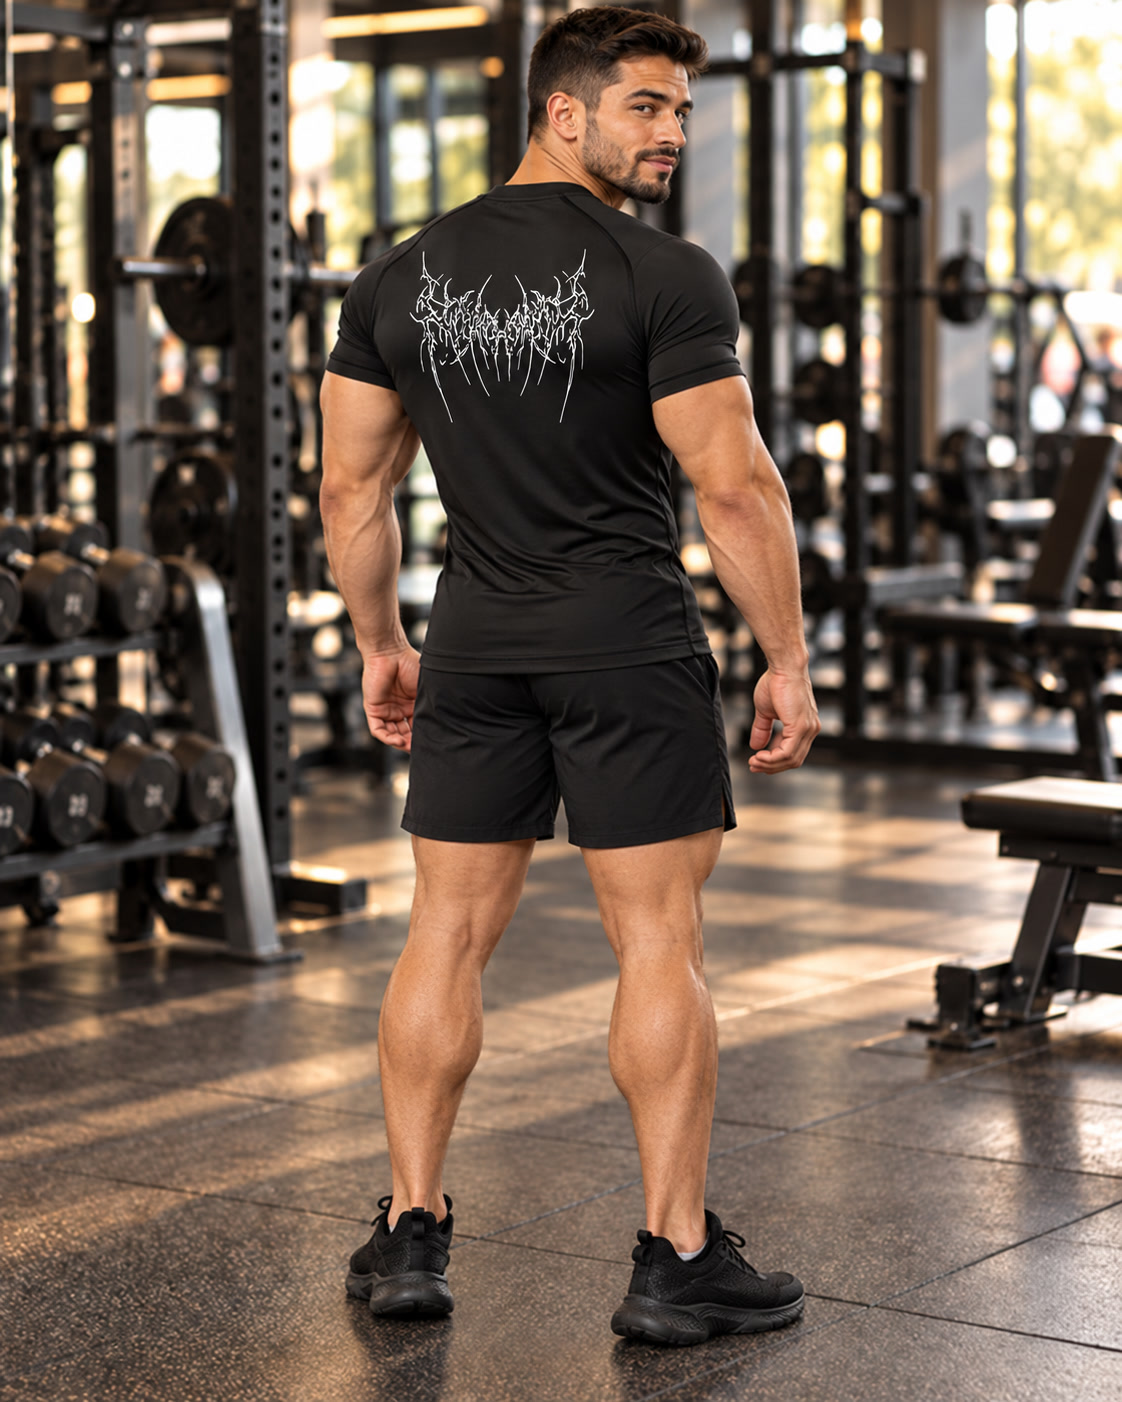
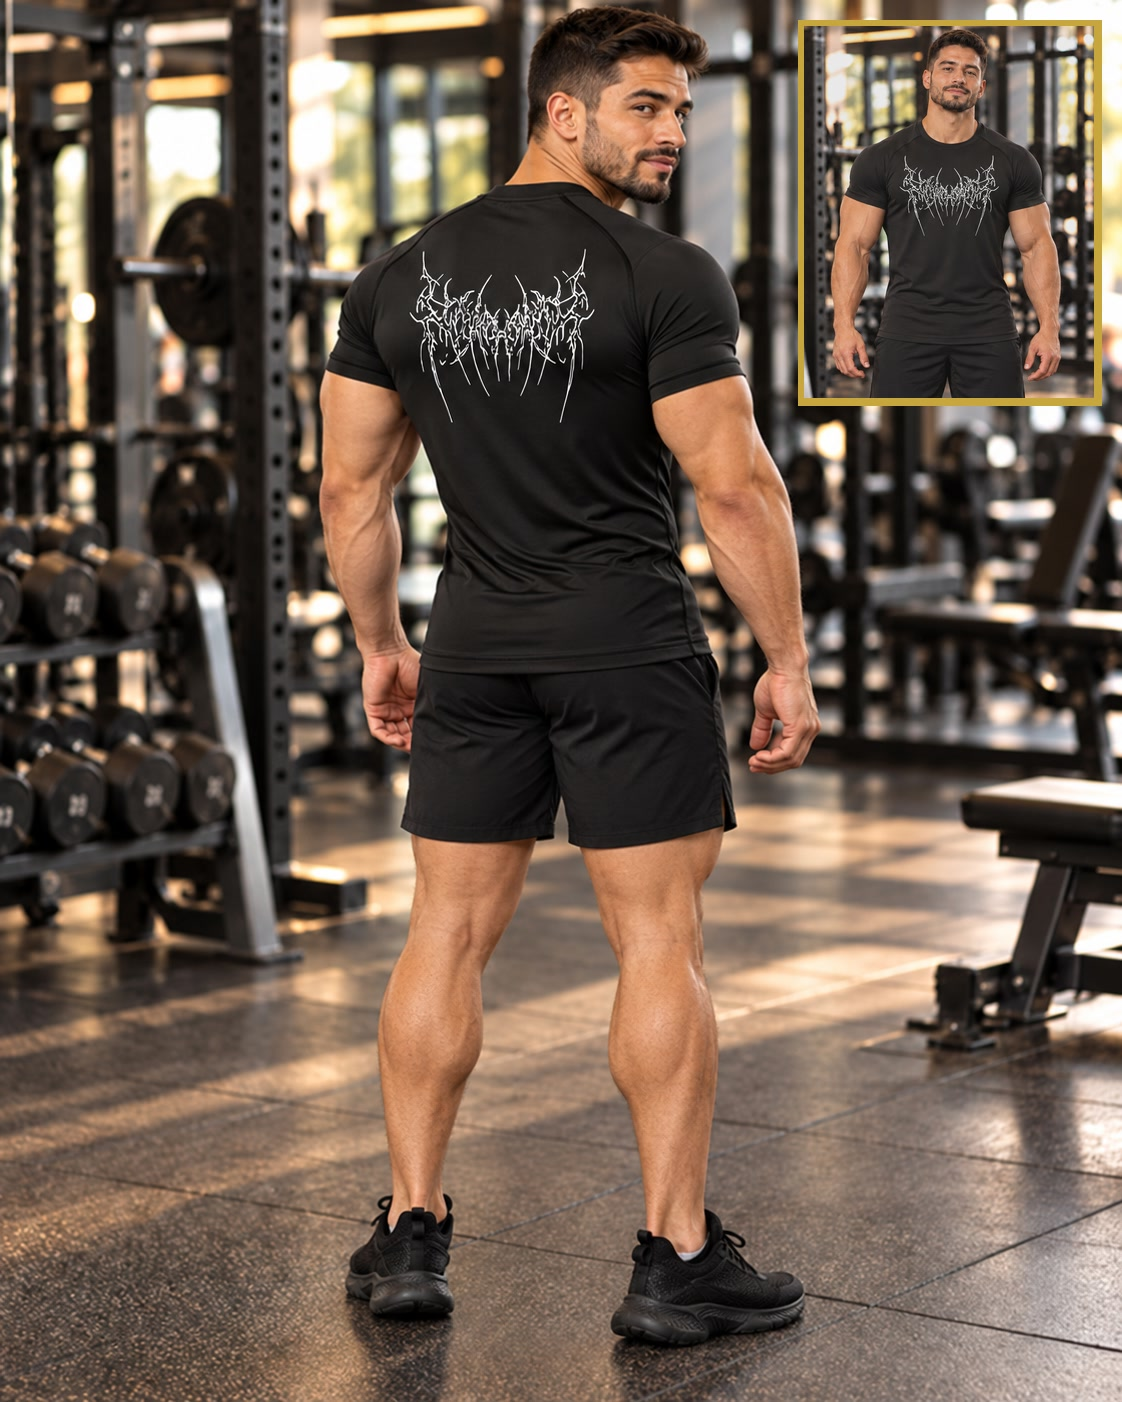
Tienda: polera Rise LYT con cuadro de frente
Claude-Session: https://claude.ai/code/session_013ZgZPSRHEDhMsqmx8Km842

Changed region(s): [[0.6863, 0.0, 0.9982, 0.3067]]

diff --git a/tienda.html b/tienda.html
@@ -221,7 +221,7 @@ function hoyISO(){ return new Intl.DateTimeFormat("en-CA", { timeZone:"America/S
 function ahoraTxt(){ var f = new Intl.DateTimeFormat("sv-SE", { timeZone:"America/Santiago", year:"numeric", month:"2-digit", day:"2-digit", hour:"2-digit", minute:"2-digit" }).format(new Date()); return f.replace("T", " ").slice(0, 16); }
 function normTxt(s){ return String(s || "").toUpperCase().normalize("NFD").replace(/[̀-ͯ]/g, ""); }
 /* Al cambiar una foto en img/tienda/ (mismo nombre), subir FOTO_V para que los teléfonos no muestren la antigua. */
-var FOTO_V = "18";
+var FOTO_V = "19";
 function fotoUrl(f){ return f ? f + (f.indexOf("?") < 0 ? "?v=" + FOTO_V : "") : ""; }
 function iconoCat(c){ var x = CATS.filter(function(k){ return k[0] === c; })[0]; return x ? x[1] : "📦"; }
 function toast(t, ms){ var el = $("toast"); el.textContent = t; el.style.display = "block"; clearTimeout(toast.t); toast.t = setTimeout(function(){ el.style.display = "none"; }, ms || 2600); }
@@ -303,7 +303,7 @@ setInterval(function(){ if(pend.length) enviarPendientes(); }, 30000);
    el computador"): los datos se vuelven a pedir a la planilla cada 30 s mientras la página está a la vista (sin una ficha
    abierta), y cada minuto se revisa tienda-version.txt: si hay una versión nueva de la página, se recarga sola.
    Cada vez que se cambie tienda.html, subir TIENDA_VERSION y tienda-version.txt juntos (AAAAMMDDNN). */
-var TIENDA_VERSION = "2026102509";
+var TIENDA_VERSION = "2026102510";
 setInterval(function(){ if(clave && !document.hidden && $("velo").hidden && !$("app").hidden) enviarPendientes().then(function(){ cargar(true); }); }, 30000);
 function revisarVersion(){
  fetch("tienda-version.txt?t=" + Date.now(), { cache:"no-store" }).then(function(r){ return r.ok ? r.text() : ""; }).then(function(v){

diff --git a/CLAUDE.md b/CLAUDE.md
@@ -1533,7 +1533,7 @@ Versión 23). Celular y compu ven el mismo inventario.
   guardado como «Ropa deportiva» se muestra como «Ropa mujer»; en los enlaces usar `cat=Ropa%20mujer` o `cat=Ropa%20hombre`).
   Ropa deportiva de mujer (24-10-2026): cada talla y color es un producto aparte con su código 200… (la ropa no trae
   código). Conjunto Gym Work 3 piezas blanco/negro M ($13.609 → $22.000; foto de espaldas con la modelo + cuadro con la foto original del conjunto, en 900 px de alto), Short scrunch M.Minute negro S (foto `img/tienda/short-scrunch-negro.jpg`, con modelo + cuadro de espalda) y azul oscuro S (foto `img/tienda/short-scrunch-azul.jpg`, igual)
-  (pack de 2 por $7.512 → $3.756 c/u, venta $9.000), Conjunto Easithlete negro M ($8.568; foto con la modelo + cuadro de la espalda, 900 px), Leggings Yefecy negro M ($11.001 → $16.000; foto con modelo de frente + cuadro de espalda), Conjunto Easithlete a $15.000; short negro a $10.000. Ropa de hombre: Polera «Stronger every day» negra M ($7.204 → $13.000; modelo hombre de espaldas + cuadro de frente), Polera Rise LYT raglán negra M ($6.701 → $14.000; modelo hombre de espaldas), Polera Gym Rark «Never give up» negra M ($7.793 → $15.000), Polera de compresión Gym Rark negra M ($7.051 → $13.000), Polera «This is my therapy» negra L ($7.323 → $14.000), Musculosa «//Strength» blanca y negra M ($8.000 → $11.000; foto con modelo hombre de ChatGPT), Musculosa «Boston EST.1997» gris M ($8.000 → $12.000), Musculosa Batman blanca M ($8.000 → $11.000). Ropa mujer: Polera Cherry rosada crop S ($3.000 → $6.000) y Polera tie-dye negra y blanca crop S ($2.000 → $5.000), Calza flare camuflaje S-M ($7.000 → $10.000; modelo con el camuflaje verde oliva real + cuadro de espalda), Calza leopardo con malla S ($8.000 → $12.000; modelo de frente + cuadro de espalda hecho en ChatGPT), Calza tie-dye azul y amarilla M ($8.000 → $11.000; foto con modelo de lado + cuadro de frente); fotos con modelo hechas por la dueña en ChatGPT. Suplementos en pausa.
+  (pack de 2 por $7.512 → $3.756 c/u, venta $9.000), Conjunto Easithlete negro M ($8.568; foto con la modelo + cuadro de la espalda, 900 px), Leggings Yefecy negro M ($11.001 → $16.000; foto con modelo de frente + cuadro de espalda), Conjunto Easithlete a $15.000; short negro a $10.000. Ropa de hombre: Polera «Stronger every day» negra M ($7.204 → $13.000; modelo hombre de espaldas + cuadro de frente), Polera Rise LYT raglán negra M ($6.701 → $14.000; modelo hombre de espaldas + cuadro de frente; el diseño de espinas va adelante y atrás), Polera Gym Rark «Never give up» negra M ($7.793 → $15.000), Polera de compresión Gym Rark negra M ($7.051 → $13.000), Polera «This is my therapy» negra L ($7.323 → $14.000), Musculosa «//Strength» blanca y negra M ($8.000 → $11.000; foto con modelo hombre de ChatGPT), Musculosa «Boston EST.1997» gris M ($8.000 → $12.000), Musculosa Batman blanca M ($8.000 → $11.000). Ropa mujer: Polera Cherry rosada crop S ($3.000 → $6.000) y Polera tie-dye negra y blanca crop S ($2.000 → $5.000), Calza flare camuflaje S-M ($7.000 → $10.000; modelo con el camuflaje verde oliva real + cuadro de espalda), Calza leopardo con malla S ($8.000 → $12.000; modelo de frente + cuadro de espalda hecho en ChatGPT), Calza tie-dye azul y amarilla M ($8.000 → $11.000; foto con modelo de lado + cuadro de frente); fotos con modelo hechas por la dueña en ChatGPT. Suplementos en pausa.
   Bebestibles en pausa hasta que llegue más mercadería. Un enlace `?nuevo=1` con un código que ya existe abre ese producto (aunque cambie el nombre). **En los enlaces, todo carácter no ASCII va codificado (á → %C3%A1)**: el de la polera Rise LYT llevaba «raglán» sin codificar, el chat volvió a codificar el enlace y el producto quedó «Polera%20Rise…» en Bebestibles; desde el 24-10-2026 `sinPorcentajes` decodifica los parámetros y `repararCodificados` arregla y vuelve a guardar los nombres que quedaron con %XX.
   **Todo se actualiza solo (24-10-2026, la dueña: "si hago una modificación en el celular, que se cambie igual en el
   computador"):** los datos se piden a la planilla cada 30 s si la página está a la vista y sin ficha abierta, y cada
